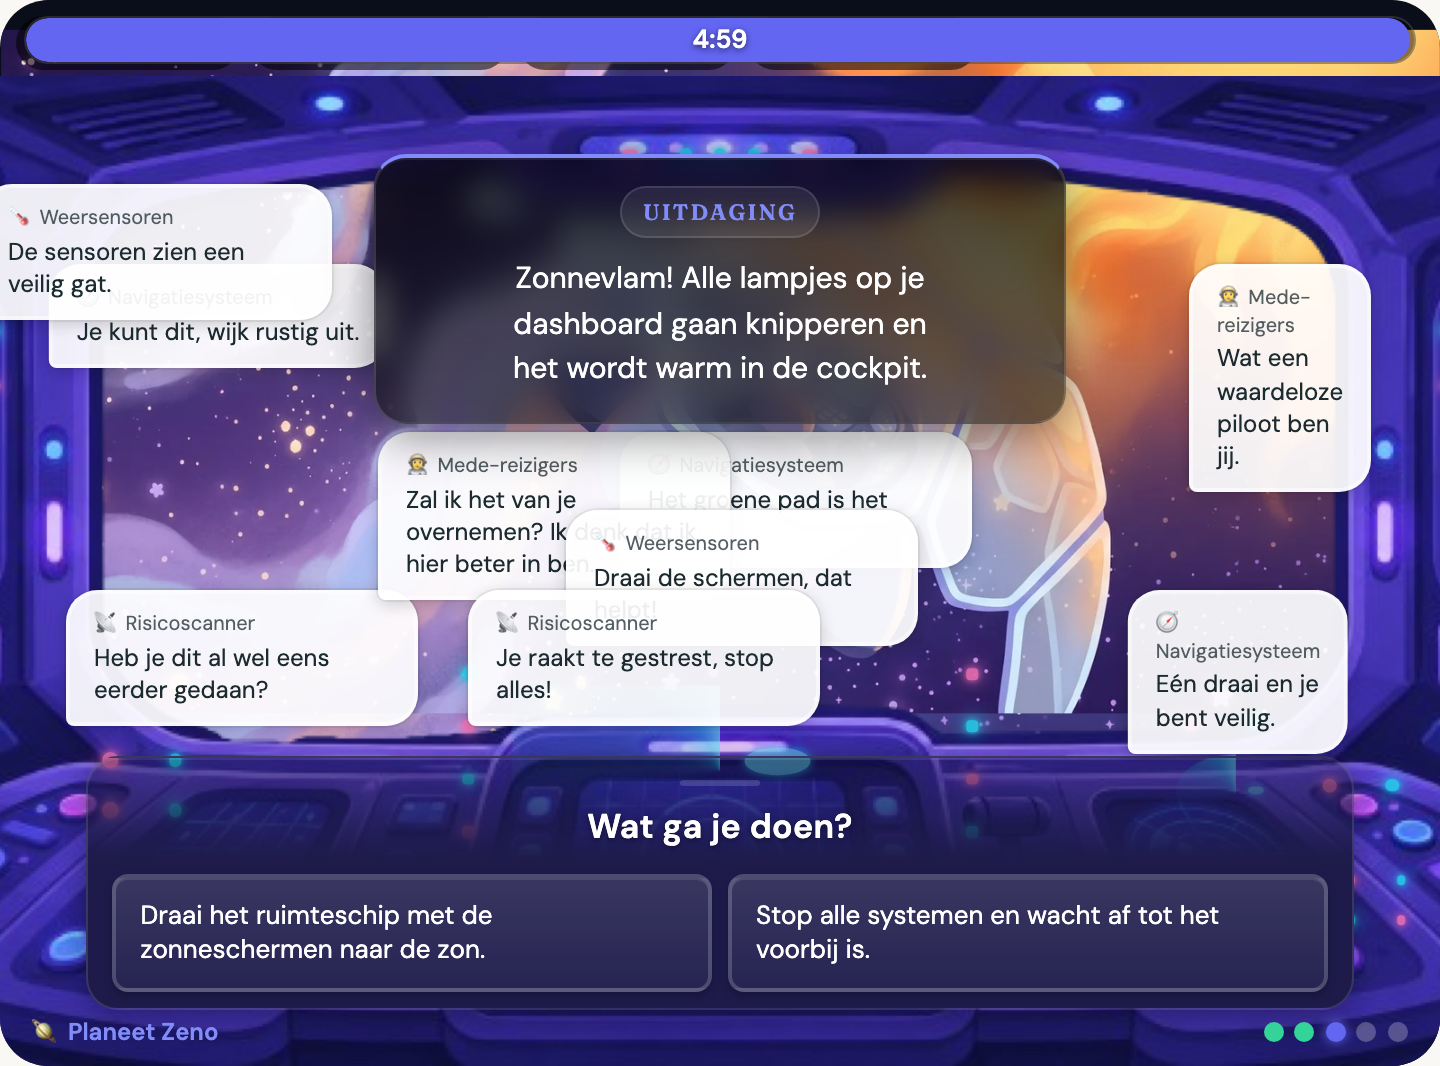
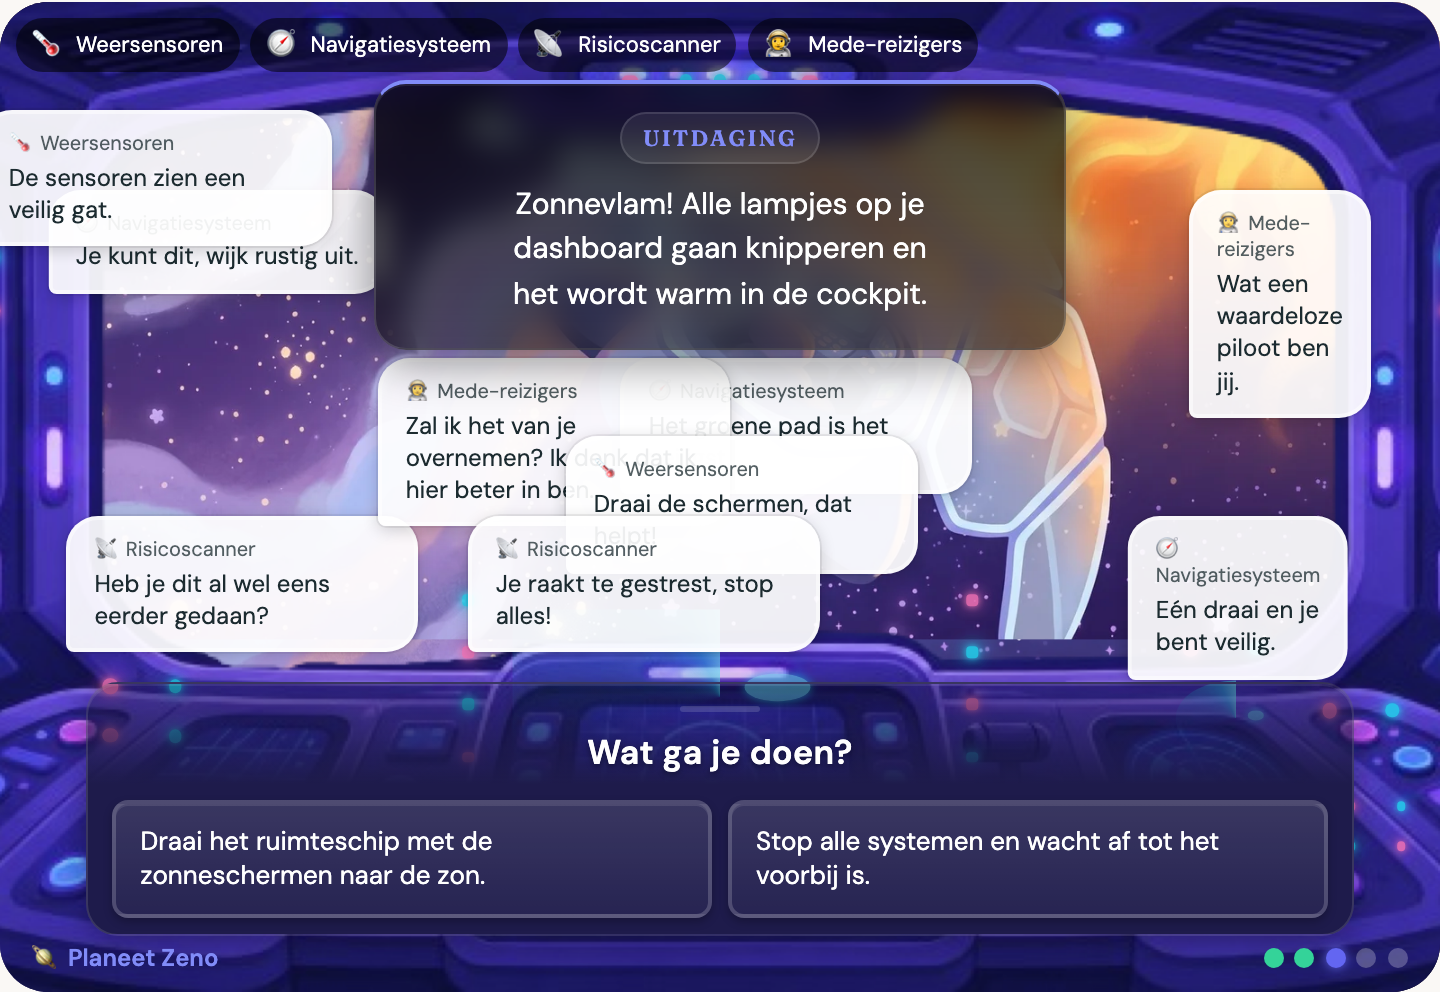
Voeg nieuwsbrief-inschrijving toe op homepage en in footer

diff --git a/_includes/praktijkbrief-signup.html b/_includes/praktijkbrief-signup.html
@@ -1,0 +1,85 @@
+{% comment %}
+  Praktijkbrief-inschrijving via jari-portal API.
+  Gebruik: {% include praktijkbrief-signup.html variant="home" %}
+  variant: home | footer
+{% endcomment %}
+
+{% assign form_endpoint = site.newsletter_form.endpoint %}
+{% if jekyll.environment != "production" and site.newsletter_form.development_endpoint != "" %}
+  {% assign form_endpoint = site.newsletter_form.development_endpoint %}
+{% endif %}
+{% assign form_context = include.context | default: page.heading | default: "Website" %}
+{% assign variant = include.variant | default: "home" %}
+
+{% if variant == "footer" %}
+  <div class="praktijkbrief-signup praktijkbrief-signup--footer">
+    <p class="praktijkbrief-signup__footer-intro">
+      Wil je het horen wanneer er een nieuwe tool beschikbaar is? Meld je dan aan voor onze nieuwsbrief!
+    </p>
+{% else %}
+  <section class="section section--surface praktijkbrief-section">
+    <div class="container">
+      <div class="contact-form-block">
+        <p class="contact-form__intro">
+          Wil je het horen wanneer er een nieuwe tool beschikbaar is? Meld je dan aan voor onze nieuwsbrief!
+        </p>
+{% endif %}
+
+        {% if form_endpoint == "" or form_endpoint == nil %}
+          <p class="contact-form__fallback">
+            Inschrijven is nog niet beschikbaar. Mail ons op
+            <a href="mailto:{{ site.contact.email }}">{{ site.contact.email }}</a>.
+          </p>
+        {% else %}
+          <form class="contact-form"
+                action="{{ form_endpoint }}"
+                method="POST"
+                accept-charset="UTF-8">
+            <input type="hidden" name="pagina" value="{{ form_context | escape }}">
+
+            <div class="contact-form__field">
+              <label class="contact-form__label" for="praktijkbrief-email-{{ variant }}">E-mail</label>
+              <input class="contact-form__input"
+                     type="email"
+                     id="praktijkbrief-email-{{ variant }}"
+                     name="email"
+                     autocomplete="email"
+                     required>
+            </div>
+
+            <div class="contact-form__field">
+              <label class="contact-form__label" for="praktijkbrief-name-{{ variant }}">
+                Naam <span class="contact-form__optional">(optioneel)</span>
+              </label>
+              <input class="contact-form__input"
+                     type="text"
+                     id="praktijkbrief-name-{{ variant }}"
+                     name="name"
+                     autocomplete="name">
+            </div>
+
+            <div class="contact-form__field">
+              <label class="contact-form__checkbox">
+                <input type="checkbox" name="consent" value="1" required>
+                <span>
+                  Ja, ik wil de nieuwsbrief ontvangen. Je mag me mailen over nieuwe tools
+                  en af en toe input vragen. Afmelden kan altijd.
+                </span>
+              </label>
+            </div>
+
+            <input type="text" name="_gotcha" class="contact-form__gotcha" tabindex="-1" autocomplete="off" aria-hidden="true">
+
+            <button class="btn btn--secondary contact-form__submit{% if variant == 'footer' %} contact-form__submit--footer{% endif %}" type="submit">
+              {% if variant == "footer" %}Aanmelden{% else %}Bevestig je inschrijving{% endif %}
+            </button>
+          </form>
+        {% endif %}
+
+{% if variant == "footer" %}
+  </div>
+{% else %}
+      </div>
+    </div>
+  </section>
+{% endif %}

diff --git a/_sass/_components.scss b/_sass/_components.scss
@@ -2154,6 +2154,104 @@
   padding: 0;
 }
 
+.contact-form__checkbox {
+  display: flex;
+  gap: 0.65rem;
+  align-items: flex-start;
+  font-size: 0.9375rem;
+  line-height: 1.5;
+  color: $color-text-muted;
+  cursor: pointer;
+
+  input {
+    margin-top: 0.2rem;
+    flex-shrink: 0;
+  }
+}
+
+// Nieuwsbrief signup — hergebruikt contact-form-block (zelfde kader als contactformulier)
+.praktijkbrief-section {
+  border-top: 4px solid $color-accent-warm;
+}
+
+.praktijkbrief-section .contact-form-block {
+  margin-block: 0;
+  margin-inline: auto;
+  max-width: 38rem;
+  border-top: 5px solid $color-accent-warm;
+}
+
+.praktijkbrief-signup--footer {
+  display: block;
+  width: 100%;
+  margin-top: $space-sm;
+  padding-top: $space-sm;
+  border-top: 1px solid rgba(#ffffff, 0.15);
+
+  .praktijkbrief-signup__footer-intro {
+    margin: 0 0 $space-sm;
+    font-size: 0.8125rem;
+    line-height: 1.5;
+    color: rgba(#ffffff, 0.72);
+  }
+
+  .contact-form {
+    gap: 0.65rem;
+  }
+
+  .contact-form__label {
+    font-size: 0.8125rem;
+    font-weight: 500;
+    color: rgba(#ffffff, 0.82);
+  }
+
+  .contact-form__input {
+    padding: 0.5rem 0.65rem;
+    font-size: 0.875rem;
+    border-color: rgba(#ffffff, 0.3);
+    background: rgba(#ffffff, 0.07);
+    color: #ffffff;
+
+    &::placeholder {
+      color: rgba(#ffffff, 0.45);
+    }
+
+    &:focus {
+      border-color: rgba(#ffffff, 0.55);
+      box-shadow: 0 0 0 2px rgba(#ffffff, 0.12);
+    }
+  }
+
+  .contact-form__optional {
+    color: rgba(#ffffff, 0.5);
+  }
+
+  .contact-form__checkbox {
+    font-size: 0.75rem;
+    line-height: 1.45;
+    color: rgba(#ffffff, 0.62);
+    gap: 0.5rem;
+  }
+
+  .contact-form__submit--footer {
+    justify-self: start;
+    margin-top: 0.15rem;
+    padding: 0.45rem 0.875rem;
+    font-size: 0.8125rem;
+    font-weight: 600;
+    background: transparent;
+    color: rgba(#ffffff, 0.88);
+    border: 1px solid rgba(#ffffff, 0.35);
+    box-shadow: none;
+
+    &:hover {
+      background: rgba(#ffffff, 0.1);
+      color: #ffffff;
+      transform: none;
+    }
+  }
+}
+
 // CTA band
 .cta-band {
   padding-block: $space-xl;

diff --git a/_sass/_layout.scss b/_sass/_layout.scss
@@ -208,10 +208,26 @@
 
   @media (min-width: $bp-md) {
     grid-template-columns: 2fr 1fr 1fr;
+    align-items: start;
   }
 
   p {
     color: rgba(#ffffff, 0.92);
+  }
+}
+
+.site-footer__brand {
+  display: flex;
+  flex-direction: column;
+  gap: $space-md;
+  min-width: 0;
+
+  @media (min-width: $bp-md) {
+    justify-content: space-between;
+  }
+
+  > p {
+    margin: 0;
   }
 }
 

diff --git a/_includes/footer.html b/_includes/footer.html
@@ -2,6 +2,7 @@
   <div class="container site-footer__grid">
     <div class="site-footer__brand">
       <p>{{ site.tagline }}. Tools voor professionals in de GGZ voor het werken met kinderen en gezinnen.</p>
+      {% include praktijkbrief-signup.html variant="footer" %}
     </div>
 
     <div>

diff --git a/_includes/home-sections.html b/_includes/home-sections.html
@@ -152,4 +152,6 @@
   </div>
 </section>
 
+{% include praktijkbrief-signup.html %}
+
 {% include cta-band.html %}

diff --git a/privacy.md b/privacy.md
@@ -97,7 +97,7 @@ sitemap: true
 
 ## Volledige privacyverklaring
 
-<p class="legal__updated">Laatst bijgewerkt: 7 juni 2026</p>
+<p class="legal__updated">Laatst bijgewerkt: 16 juni 2026</p>
 
 Interact GGZ ("wij", "ons", "Interact GGZ") respecteert jouw privacy en gaat
 zorgvuldig om met persoonsgegevens. In deze privacyverklaring leggen we uit
@@ -194,6 +194,25 @@ Vul je een contact- of ideeënformulier in of mail je ons, dan verwerken we de
 gegevens die je zelf verstrekt (zoals naam, e-mailadres, eventueel
 telefoonnummer en je bericht) om je vraag te beantwoorden.
 
+#### f. Nieuwsbrief
+
+Schrijf je in voor de nieuwsbrief op onze website, dan verwerken we:
+
+| Gegeven | Verplicht? | Doel |
+|---------|-----------|------|
+| E-mailadres | Ja | Inschrijving en verzending van de nieuwsbrief |
+| Naam | Optioneel | Persoonlijke aanhef in mail |
+| Inschrijfdatum en status | Ja | Beheren van de abonneelijst |
+
+Inschrijven verloopt via **dubbele opt-in**: je ontvangt eerst een
+bevestigingsmail (via onze e-mailprovider Resend, hetzelfde als bij
+inloglinks). Pas na bevestiging kom je op de actieve lijst. We gebruiken geen
+externe mailing-partij voor het beheer van de lijst; die staat in onze eigen
+database. We verkopen je gegevens niet door.
+
+Afmelden kan door te antwoorden op een nieuwsbrief-mail met "afmelden", of
+door ons te mailen. Je kunt ook verzoeken om wissing van je gegevens.
+
 ### 4. Doeleinden en grondslagen
 
 | Doel | Grondslag (AVG) |
@@ -203,14 +222,17 @@ telefoonnummer en je bericht) om je vraag te beantwoorden.
 | Account aanmaken en beheren | Uitvoering van de overeenkomst |
 | Betalingen en facturatie afhandelen | Uitvoering van de overeenkomst en wettelijke (administratie)plicht |
 | Reageren op contact- en ideeënberichten | Gerechtvaardigd belang |
+| Nieuwsbrief: inschrijving en mail over tools/input | Toestemming |
 
 ### 5. Delen met anderen
 
 Wij delen jouw persoonsgegevens niet met derden, behalve:
 
 - met **verwerkers** die in onze opdracht en onder onze instructie diensten
-  leveren, zoals Moneybird voor facturatie. Met deze partijen zijn de wettelijk
-  vereiste afspraken (verwerkersovereenkomsten) gemaakt;
+  leveren, zoals Moneybird voor facturatie en Resend voor transactionele
+  e-mails (inloglinks en bevestiging van nieuwsbrief-inschrijvingen). Met
+  deze partijen zijn de wettelijk vereiste afspraken (verwerkersovereenkomsten)
+  gemaakt;
 - wanneer wij daartoe wettelijk verplicht zijn (bijvoorbeeld op grond van een
   rechtmatig verzoek van een bevoegde autoriteit).
 
@@ -227,6 +249,9 @@ We bewaren persoonsgegevens niet langer dan nodig:
   (in Nederland doorgaans zeven jaar).
 - **Contactberichten:** zo lang als nodig om je vraag af te handelen en
   daarna een redelijke periode voor opvolging.
+- **Nieuwsbrief:** zolang je ingeschreven bent. Niet-bevestigde inschrijvingen
+  verwijderen we na 30 dagen. Na afmelding markeren we je als afgemeld; op
+  verzoek verwijderen we je gegevens.
 - **Statistieken:** in geaggregeerde, niet tot een persoon herleidbare vorm.
 
 ### 7. Beveiliging

diff --git a/bedankt-nieuwsbrief.md b/bedankt-nieuwsbrief.md
@@ -1,0 +1,15 @@
+---
+layout: page
+heading: Bedankt
+subtitle: Inschrijving ontvangen
+intro: >-
+  Check je mail en klik op de bevestigingslink om je inschrijving voor de
+  nieuwsbrief af te ronden.
+sitemap: false
+---
+
+De link is 48 uur geldig. Geen mail ontvangen? Kijk in je spamfolder of probeer
+het later opnieuw.
+
+Heb je met spoed een vraag? Mail ons op
+[{{ site.contact.tools_email }}](mailto:{{ site.contact.tools_email }}).

diff --git a/bevestigd-nieuwsbrief.md b/bevestigd-nieuwsbrief.md
@@ -1,0 +1,12 @@
+---
+layout: page
+heading: Inschrijving bevestigd
+subtitle: Je staat op de lijst
+intro: >-
+  Bedankt! Je inschrijving voor de nieuwsbrief is bevestigd. We mailen je
+  alleen als we echt iets te delen hebben.
+sitemap: false
+---
+
+Wil je je weer afmelden? Antwoord op een nieuwsbrief-mail met “afmelden”, of
+mail ons op [{{ site.contact.email }}](mailto:{{ site.contact.email }}).
